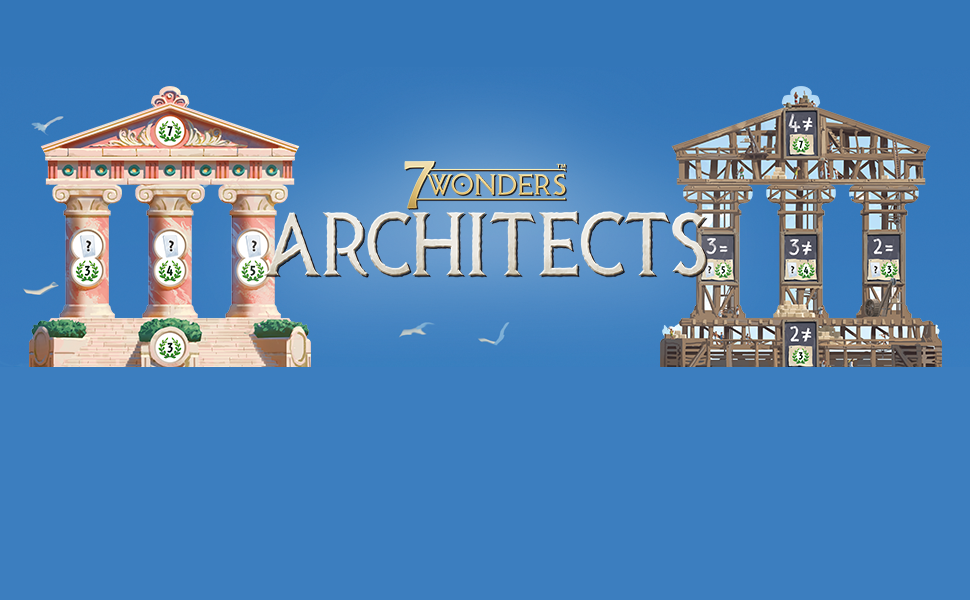
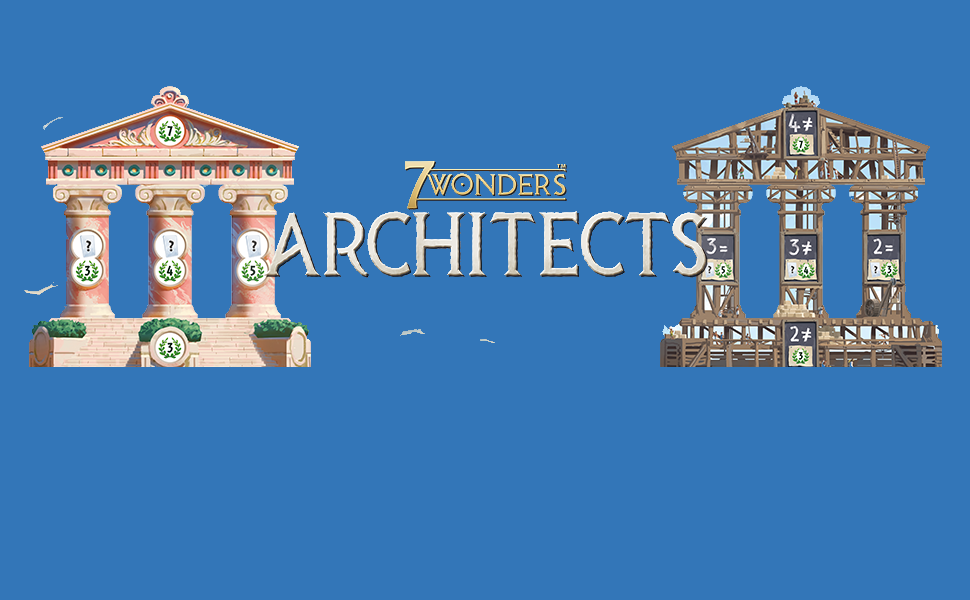
full screen added

Changed region(s): [[0.2784, 0.21, 0.7423, 0.57], [0.0309, 0.18, 0.0619, 0.24]]

diff --git a/src/main/resources/com/isep/architects/wondersarchitects/css/homeScreen.css b/src/main/resources/com/isep/architects/wondersarchitects/css/homeScreen.css
@@ -1,8 +1,5 @@
 .root{
     -fx-background-image: url('../img/homeScreen.png');
-    -fx-background-size: 100%;
-    -fx-background-position: center;
-    -fx-background-repeat: no-repeat;
 }
 
 .label{
@@ -28,11 +25,11 @@
 }
 
 .choice-box .context-menu{
-    -fx-background-color: #3C7EBF;
+    -fx-background-color: #3376b8;
 }
 
 .choice-box{
-    -fx-background-color: #3C7EBF;
+    -fx-background-color: #3376b8;
     -fx-border-color: #FFFFFF;
 }
 

diff --git a/src/main/java/com/isep/architects/wondersarchitects/Application.java b/src/main/java/com/isep/architects/wondersarchitects/Application.java
@@ -2,6 +2,8 @@ package com.isep.architects.wondersarchitects;
 
 import com.isep.architects.wondersarchitects.controllers.BoardOverviewController;
 import com.isep.architects.wondersarchitects.controllers.Controller;
+import javafx.beans.value.ChangeListener;
+import javafx.beans.value.ObservableValue;
 import javafx.event.EventHandler;
 import javafx.fxml.FXMLLoader;
 import javafx.scene.Parent;
@@ -10,6 +12,8 @@ import javafx.scene.control.Label;
 import javafx.scene.image.Image;
 import javafx.scene.input.KeyEvent;
 import javafx.scene.text.Font;
+import javafx.scene.transform.Scale;
+import javafx.stage.Screen;
 import javafx.stage.Stage;
 
 import java.io.IOException;
@@ -23,16 +27,46 @@ public class Application extends javafx.application.Application {
 
     private Scene scene;
 
+    private double ratio;
+
+    private double scWidth;
+
+    private double scHeight;
+
+    private Scale scale;
+
 
     @Override
     public void start(Stage stage) throws IOException {
         this.stage = stage;
+        stage.setX(0);
+        stage.setY(0);
+        stage.setResizable(false);
+        this.stage.setMaximized(true);
         Font.loadFont(getClass().getResourceAsStream(
                 "/com/isep/architects/wondersarchitects/font/PossumSaltareNF.otf"), 10);
         this.fxmlLoader = new FXMLLoader(Application.class.getResource(
                 "/com/isep/architects/wondersarchitects/welcomeMenu.fxml"));
 
-        this.scene = new Scene(this.fxmlLoader.load(), 970, 600);
+
+
+        scWidth = Screen.getPrimary().getBounds().getWidth();
+        scHeight = Screen.getPrimary().getBounds().getWidth();
+        ratio = 1;
+        if(scWidth/970 < scHeight/600){
+            ratio = scWidth/970;
+        }else {
+            ratio = scHeight/600;
+        }
+        System.out.println(ratio);
+
+        scale = new Scale(ratio,ratio);
+        scale.setPivotX(0);
+        scale.setPivotY(0);
+
+        this.scene = new Scene(this.fxmlLoader.load(),scWidth,scHeight);
+        this.scene.getRoot().getTransforms().setAll(scale);
+
 
         GuiParser parser = new GuiParser();
 
@@ -44,7 +78,7 @@ public class Application extends javafx.application.Application {
 
         this.stage.setTitle("7 Wonders Architects");
         this.stage.getIcons().add(new Image(getClass().getResourceAsStream("/com/isep/architects/wondersarchitects/img/GameIcon.png")));
-        this.stage.setResizable(false);
+        //this.stage.setResizable(false);
         this.stage.setScene(this.scene);
         this.stage.show();
 
@@ -53,17 +87,22 @@ public class Application extends javafx.application.Application {
 
 
     public Controller changeScene(String fxmlFile, GuiParser parser) throws IOException {
+
         this.fxmlLoader = new FXMLLoader(getClass().getResource(fxmlFile));
         Parent root = this.fxmlLoader.load();
         Controller controller = this.fxmlLoader.getController();
 
 
 
-        this.scene = new Scene(root, 970, 600);
+
+        this.scene = new Scene(root,scWidth,scHeight);
+        this.scene.getRoot().getTransforms().setAll(scale);
+
 
         controller.init(parser);
 
         this.stage.setScene(this.scene);
+        this.stage.setScene(scene);
         this.stage.show();
         return controller;
 

diff --git a/src/main/java/com/isep/architects/wondersarchitects/controllers/PlayerCreationController.java b/src/main/java/com/isep/architects/wondersarchitects/controllers/PlayerCreationController.java
@@ -55,7 +55,7 @@ public class PlayerCreationController extends Controller{
     }
 
     public void numberInit(int number){
-        this.label.setText("Please chose a name for player number "+number);
+        this.label.setText("Please choose a name for player number "+number);
         String path = "/com/isep/architects/wondersarchitects/img/";
         Image image = new Image(getClass().getResourceAsStream(
                 path+list[number-1]));
